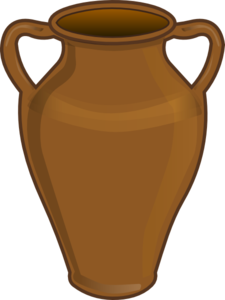
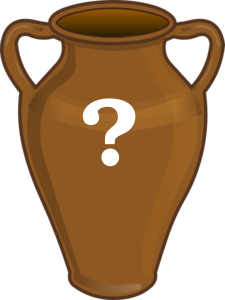
Update pictures (wheel and "?")

Changed region(s): [[0.3422, 0.3, 0.6222, 0.57]]

diff --git a/index.html b/index.html
@@ -16,7 +16,7 @@
     <body>
         <header class="work_screen">
             <div id="headerbox">
-                <div class="headerboxlink mainOnly" onclick="objectPage.headerLink()"><img id="TopLeftImage" class="potholderLogo" src="images/potholder.png"></div>
+                <div class="headerboxlink mainOnly" onclick="objectPage.headerLink()"><img id="TopLeftImage" class="potholderLogo" src="images/wheel.png"></div>
                 <div id="buttonheader">
                     <!-- top: MainMenu-->
                     <div class="MainMenu topButtons pageOverlay">
@@ -310,7 +310,7 @@
             <input type="file" id="HiddenPix" accept="image/*" class="imageBar" onchange="objectPot.newPhoto()" capture="environment">
             <input type="file" id="HiddenGallery" accept="image/*" class="imageBar" onchange="objectPot.newPhoto()" multiple>
             <img id="NoPicture" src="images/NoPicture.png" />
-            <img id="LogoPicture" src="images/potholder.png" />
+            <img id="LogoPicture" src="images/wheel.png" />
             <canvas id="thumbnail" width=100 height=100>
             </canvas>
             <!-- Extra Edit buttons -->

diff --git a/js/app.js b/js/app.js
@@ -473,7 +473,7 @@ class SearchList extends Pagelist {
 window.onload = () => {
     // Stuff into history to block browser BACK button
     window.history.pushState({}, '');
-    window.addEventListener('popstate', ()=>window.history.pushState({}, '') );
+    window.addEventListener('popstate', ()=>window.history.replaceState({}, '') );
 
     // Service worker (to manage cache for off-line function)
     if ( 'serviceWorker' in navigator ) {

diff --git a/sw.js b/sw.js
@@ -12,6 +12,7 @@ const cacheList = [
     "/sw.js",
     "/images/NoPicture.png",
     "/images/potholder.png",
+    "/images/wheel.png",
     "/style/base.css",
     "/style/print.css",
     "/js/app.js",
